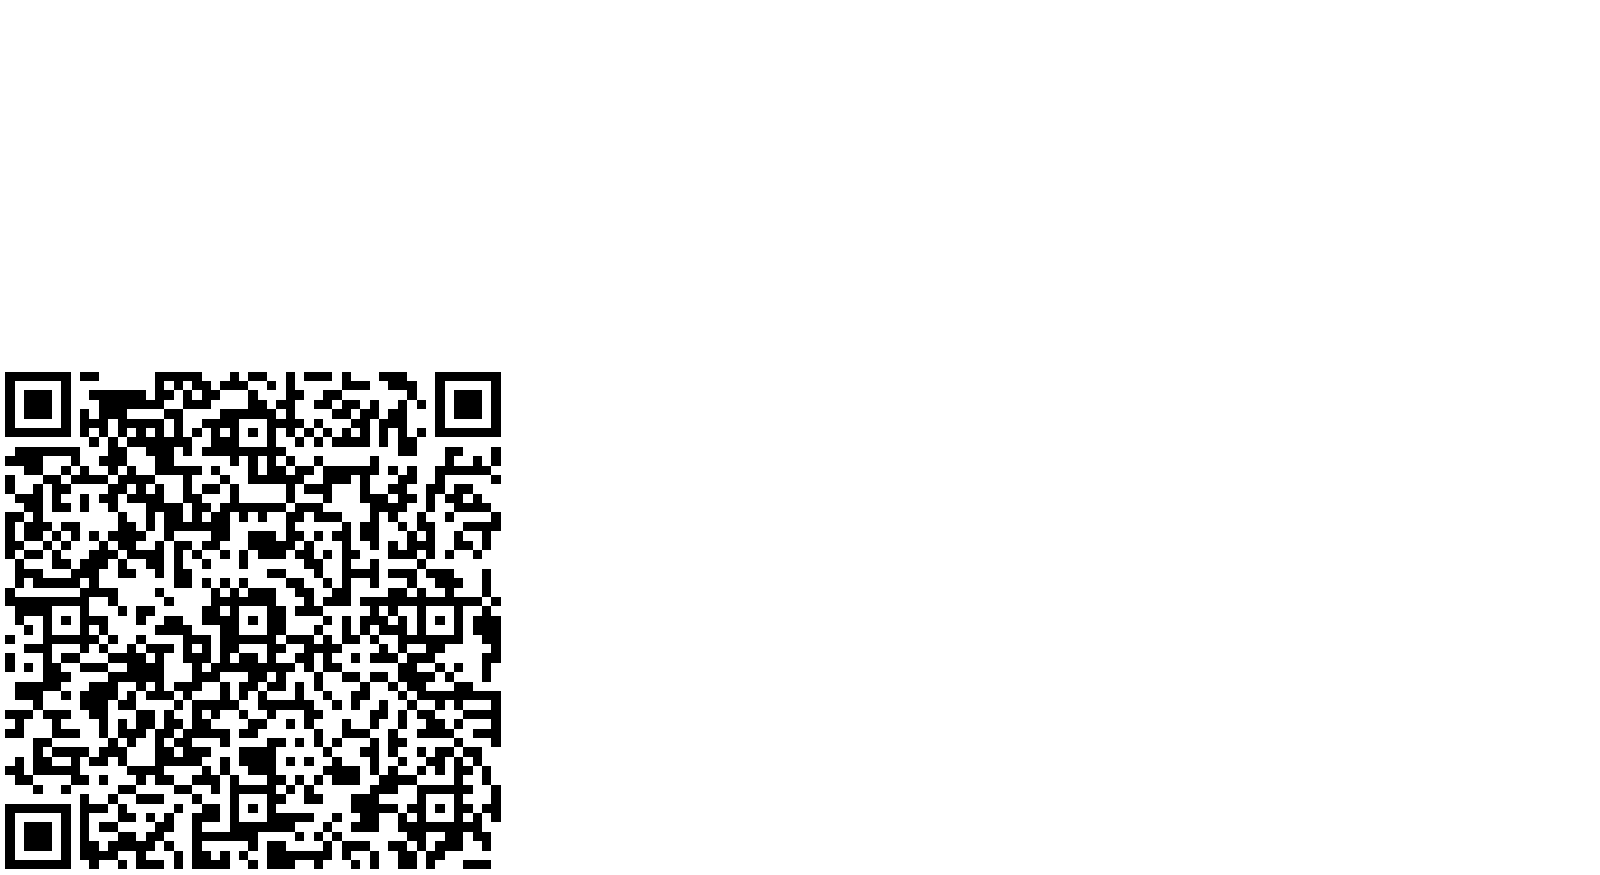
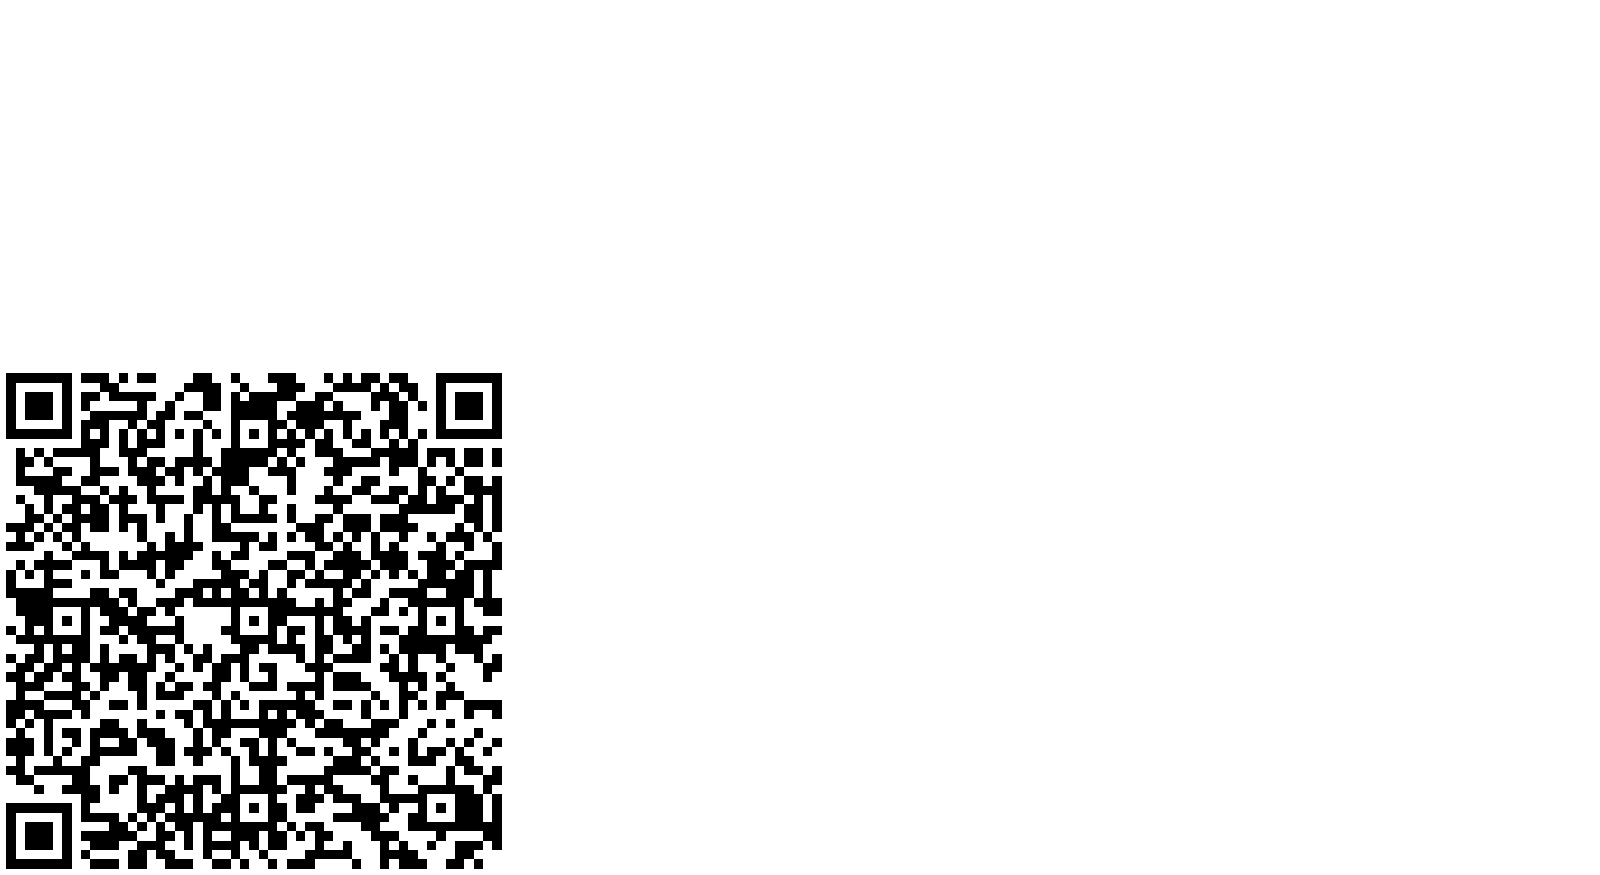
20

Changed region(s): [[0.0, 0.4011, 0.3125, 1.0]]

diff --git a/Pagamento pix.html b/Pagamento pix.html
@@ -1362,8 +1362,8 @@ body.swal2-no-backdrop .swal2-shown {
     "
   />
 </div>
-                    <input type="text" class="key-pix-input copy_digitable_line" value="00020101021226800014br.gov.bcb.pix2558pix.delbank.com.br/v2/cob/vcharge976cae29a18d4a8d86ac605715204000053039865802BR5907DELBANK6007ARACAJU62070503***63046F33" readonly="">
-                    <input id="key_pix_digitable_line" type="hidden" value="00020101021226800014br.gov.bcb.pix2558pix.delbank.com.br/v2/cob/vcharge976cae29a18d4a8d86ac605715204000053039865802BR5907DELBANK6007ARACAJU62070503***63046F33">
+                    <input type="text" class="key-pix-input copy_digitable_line" value="00020101021226800014br.gov.bcb.pix2558pix.delbank.com.br/v2/cob/vchargead706503d09a40f68286f59b35204000053039865802BR5907DELBANK6007ARACAJU62070503***63041A72" readonly="">
+                    <input id="key_pix_digitable_line" type="hidden" value="00020101021226800014br.gov.bcb.pix2558pix.delbank.com.br/v2/cob/vchargead706503d09a40f68286f59b35204000053039865802BR5907DELBANK6007ARACAJU62070503***63041A72">
                     <button type="button" id="copy_digitable_line" class="btn buy-btn button-pix copy_digitable_line">
                         <img src="./Pagamento pix_files/copy.svg">
                         COPIAR CÓDIGO
